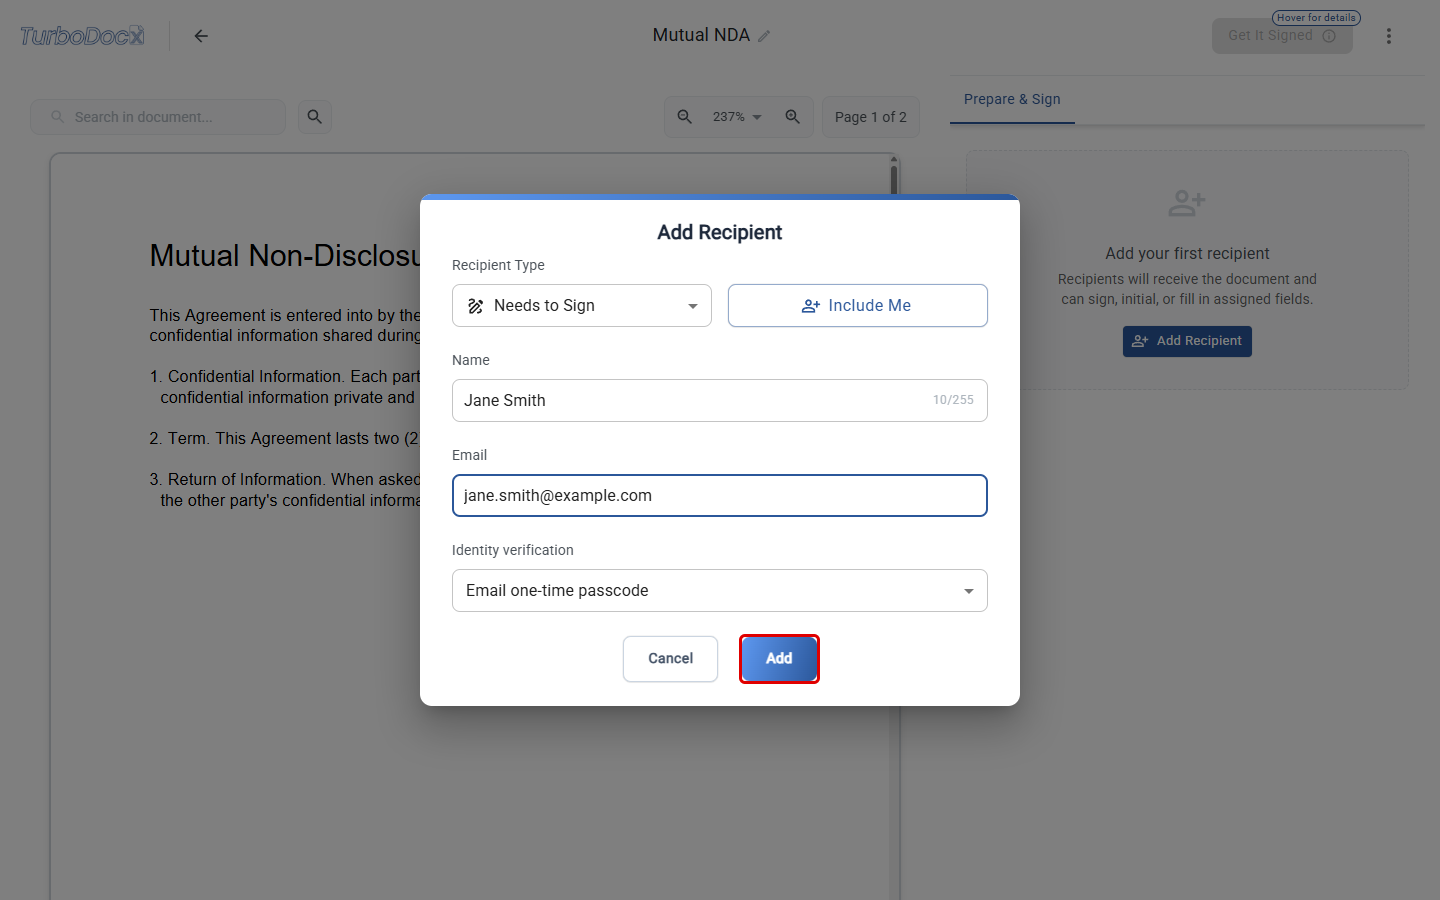
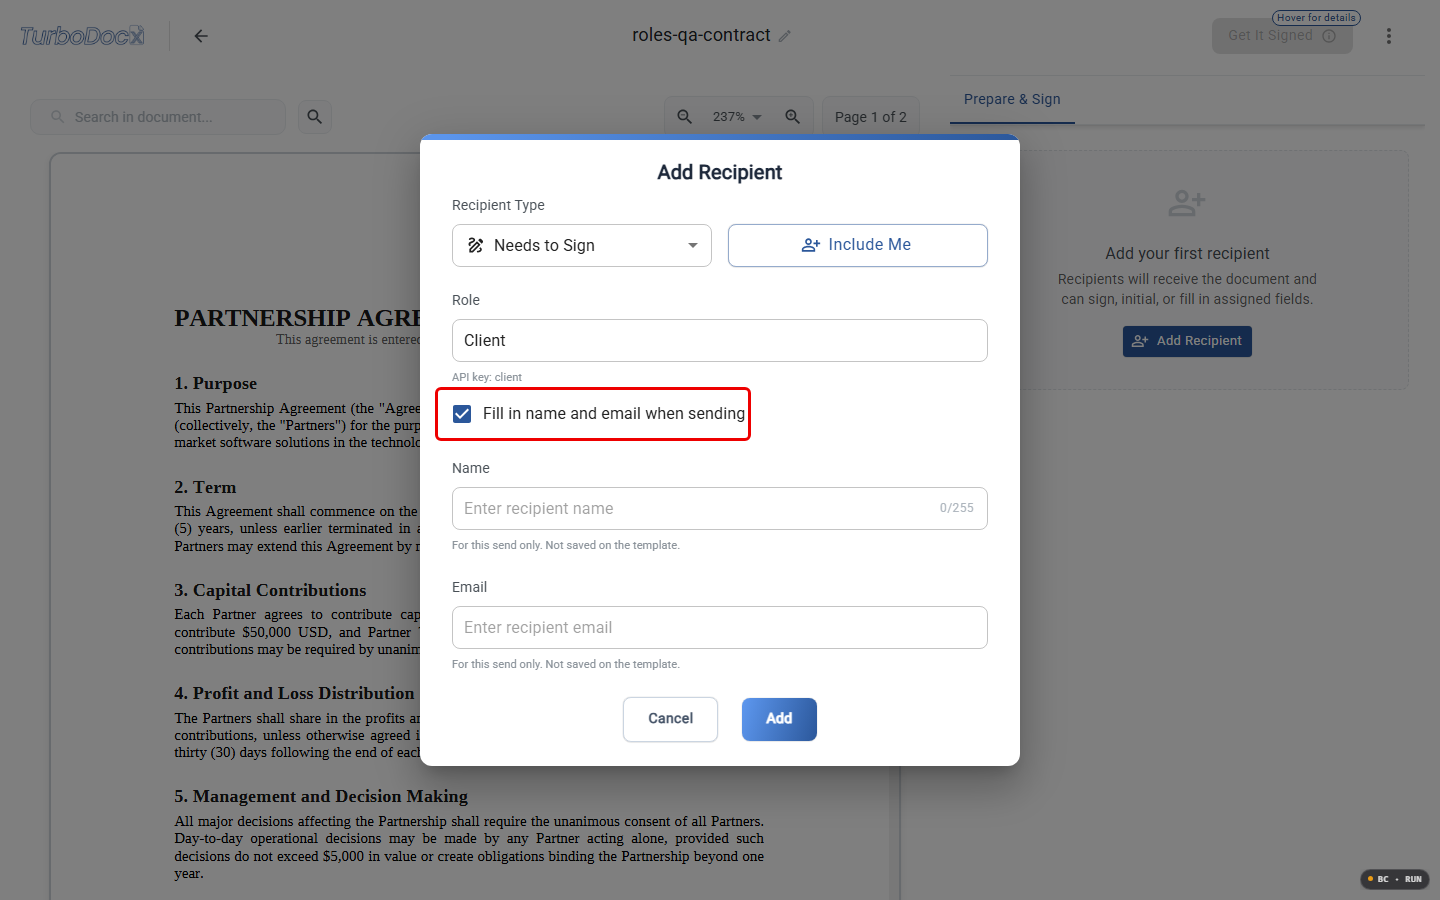
docs(turbosign): signer roles and slots in the PDF signature template guide
Step 2 covers naming a signer's role and leaving a role to be filled in
when sending; new section on sending the template from code with the
Use via API panel. Refreshed the Add Recipient screenshot.

diff --git a/docs/TurboSign/PDF-Signature-Templates.md b/docs/TurboSign/PDF-Signature-Templates.md
@@ -4,6 +4,8 @@ sidebar_position: 1.5
 description: Upload a PDF as a TurboSign template, add signers and signature fields once, and save that setup so every future send starts ready to sign.
 keywords:
   - pdf signature template
+  - signer roles
+  - send template from api
   - reusable signature template
   - save signature setup
   - turbosign pdf template
@@ -55,15 +57,23 @@ TurboDocx prepares the PDF the same way as a PDF you upload for signature:
 
 ![Prepare & Sign tab with the Add Recipient button highlighted](/img/pdf_signature_templates/03_add_recipient.png)
 
-2. Enter the signer's **Name** and **Email**, then click **Add**. In the same window you can
-   choose the signer's identity verification, or set **Recipient Type** to **Receives a Copy**
-   for someone who only gets a copy.
+2. In **Role**, name the part this signer plays, for example **Client** or **Countersigner**.
+   The **API key** shown under it is the name your code uses for this signer (see
+   [Send the template from your code](#send-the-template-from-your-code)).
+3. Choose who signs:
+   - If a different person signs each time (for example, each new client), tick **Fill in name
+     and email when sending**. Name and email become optional: anything you type there is for
+     this send only and is never saved on the template.
+   - If the same person always signs (for example, someone on your team), leave it unticked and
+     enter their **Name** and **Email**.
+4. Click **Add**. In the same window you can choose the signer's identity verification, or set
+   **Recipient Type** to **Receives a Copy** for someone who only gets a copy.
 
-![Add Recipient dialog with a name and email filled in and the Add button highlighted](/img/pdf_signature_templates/04_recipient_details.png)
+![Add Recipient dialog with the role Client and Fill in name and email when sending highlighted](/img/pdf_signature_templates/04_recipient_details.png)
 
 :::tip
-Add a recipient for everyone who signs this document every time. You can still change the name
-and email before each send.
+Add a recipient for everyone who signs this document every time. A signer saved with a name and
+email can still be changed before each send.
 :::
 
 ## Step 3: Place the signature fields
@@ -124,6 +134,32 @@ save it again.
 You can also start from TurboSign: click **New Signature**, pick the template on the **Templates**
 tab under **Or Start with an Existing Document**, and click **Continue**. The request opens with
 the saved setup filled in.
+
+## Send the template from your code
+
+Once the setup is saved, you can send the template from your own app with the TurboDocx SDK or
+API, without placing any fields in code. Each recipient names a role, and the fields you placed
+for that role come with it.
+
+1. Open the template's page (click **⋮ → Edit Template**, or click the template in **Templates**).
+2. Under **Use via API**, copy the **Template ID** and the sample for your language. Each signer's
+   role key (for example `client`) is shown next to them as **role: client**.
+
+![Template page with the Use via API panel highlighted, showing the template ID and a JavaScript sample](/img/pdf_signature_templates/14_use_via_api.png)
+
+```ts
+await TurboSign.sendSignature({
+  templateId: "your-template-id",
+  recipients: [{ role: "client", name: "Jane Doe", email: "jane@example.com" }],
+})
+```
+
+- Pass a recipient for every role marked **Filled in when sending**.
+- A role saved with a name and email can be left out: that saved signer is used. Pass it to send
+  to someone else this time.
+- Signers sign in the order shown on the template.
+
+For every parameter and error, see the [TurboSign API reference](./API-Signatures.md).
 
 ## Change or remove the saved setup
 
